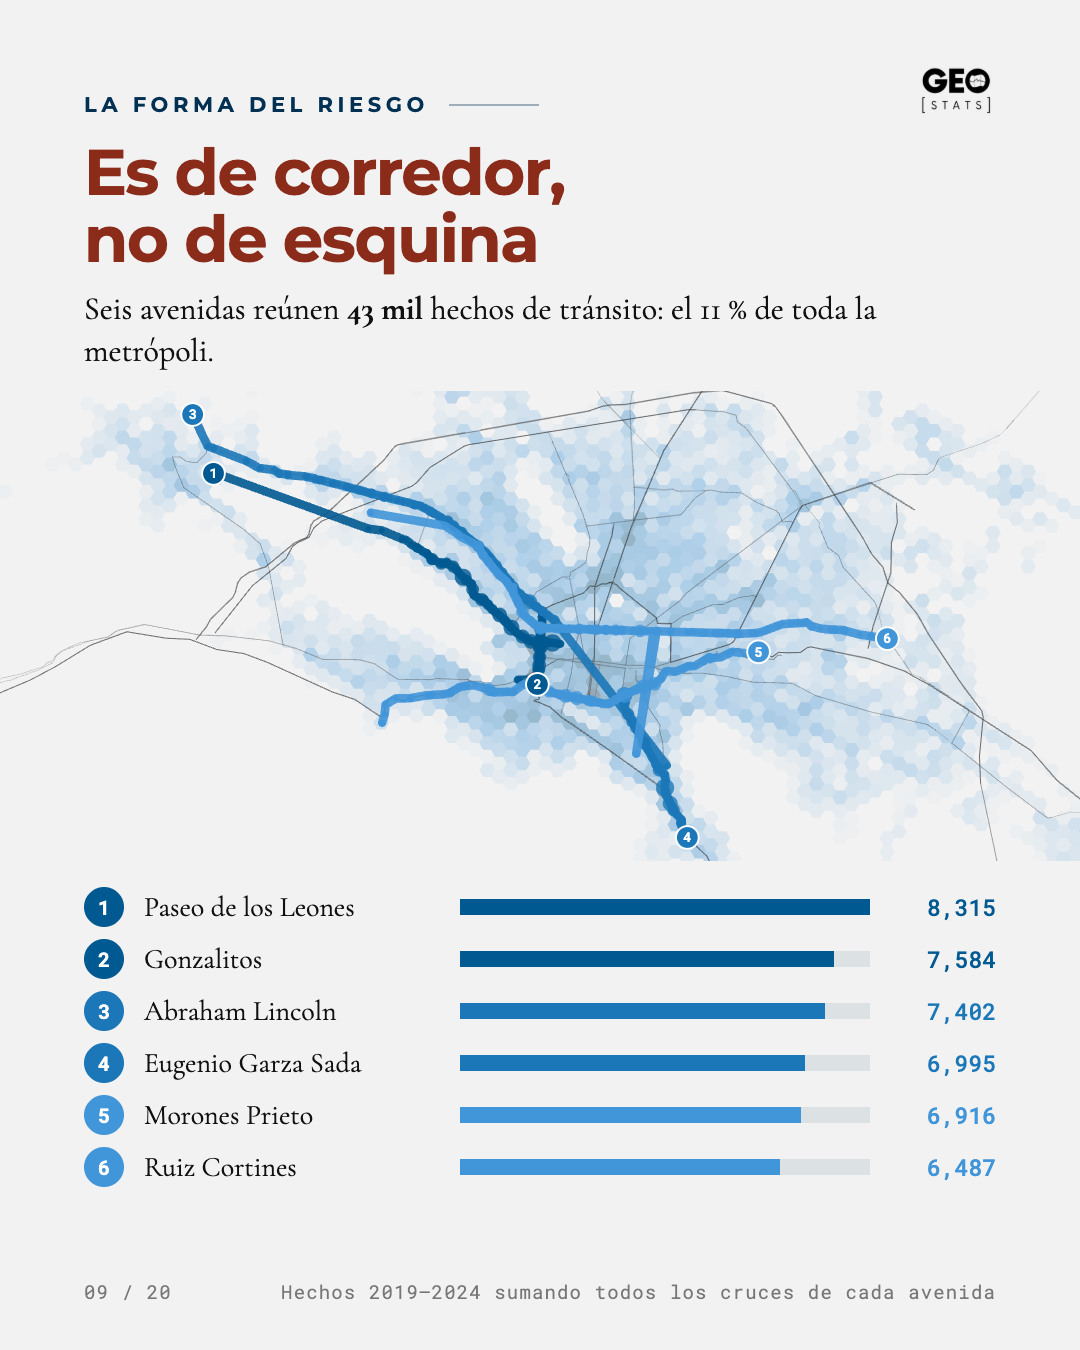
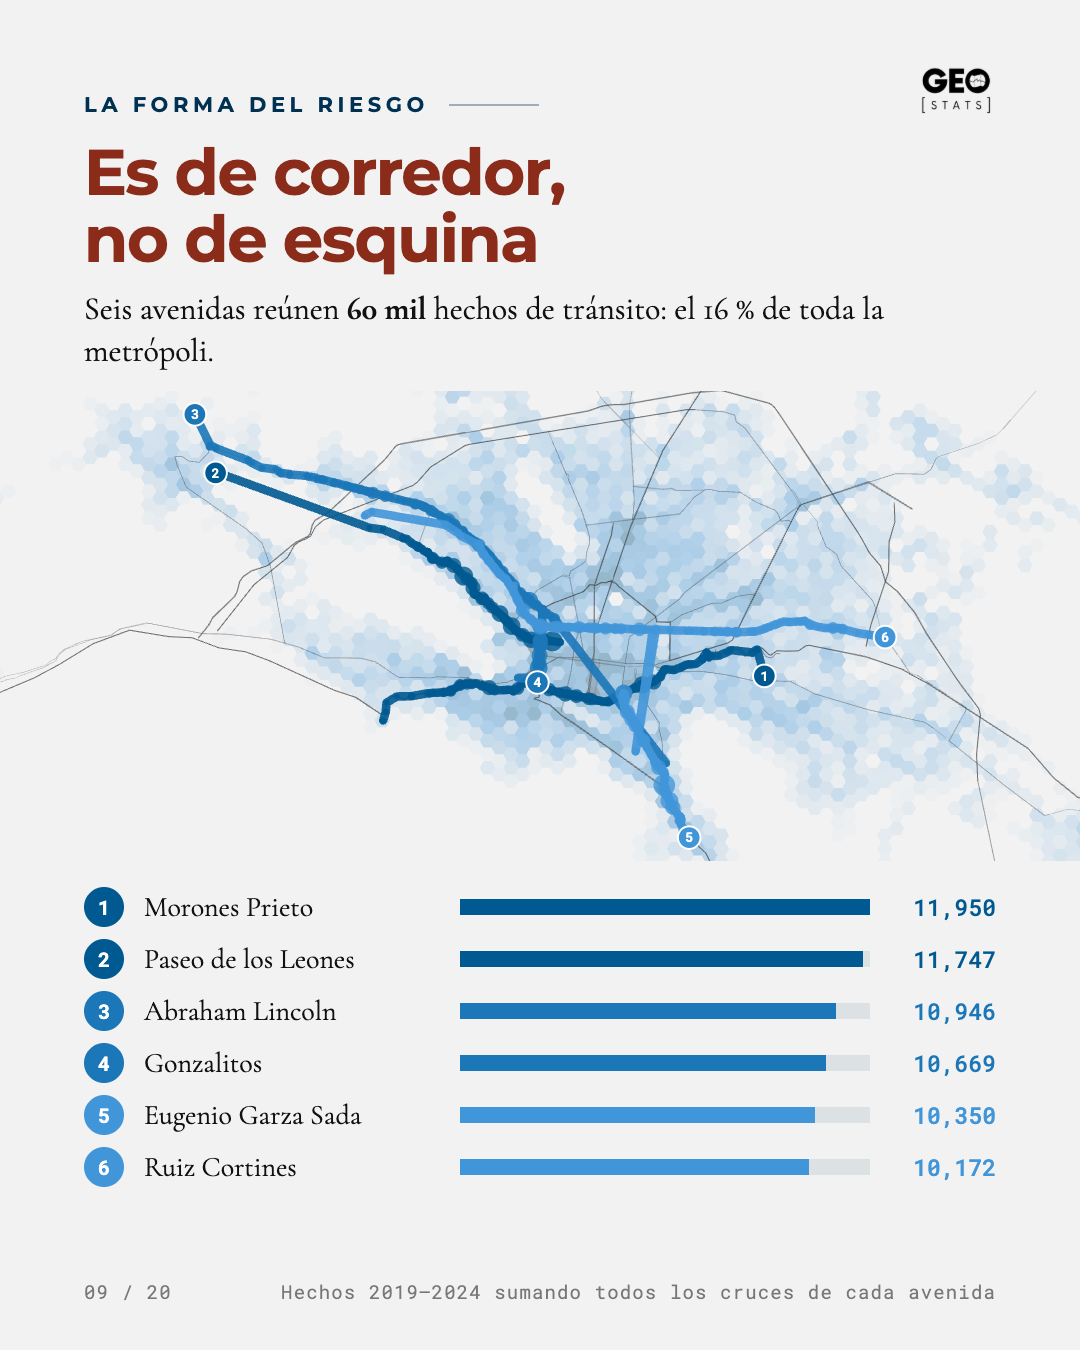
fix(publicacion): actualiza las cifras de corredores tras homologar nombres
Al homologar los nombres de vialidades, los seis corredores pasaron a
reunir 60 mil hechos de tránsito (16 % de la metrópoli) en lugar de 43
mil (11 %), así que se corrige el texto de la lámina de corredores.

También se simplifica el reemplazo de "Manuel L. Barragán", que ya no
depende del nombre duplicado con "×", y se regeneran las imágenes
09_corredores y 12_nombre_y_apellido con los datos corregidos.

diff --git a/publicacion/plantilla.html b/publicacion/plantilla.html
@@ -259,7 +259,7 @@ tr.cima td.n{color:var(--ladrillo); font-weight:700}
 <section class="ig" data-archivo="09_corredores">
   <div class="ceja">La forma del riesgo</div>
   <h2>Es de corredor, no de esquina</h2>
-  <p class="entrada" style="font-size:32px;margin-top:16px">Seis avenidas reúnen <b>43 mil</b> hechos de tránsito: el 11 % de toda la metrópoli.</p>
+  <p class="entrada" style="font-size:32px;margin-top:16px">Seis avenidas reúnen <b>60 mil</b> hechos de tránsito: el 16 % de toda la metrópoli.</p>
   <div class="marco" style="gap:26px;margin-top:20px">
     <div class="mapa" id="mCorredores" style="height:470px;margin:0 -84px"></div>
     <div class="barras" id="bCorredores"></div>
@@ -756,7 +756,7 @@ tr.cima td.n{color:var(--ladrillo); font-weight:700}
       return s.replace(/\b(De|Del|Los|La)\b/g, function(w){ return w.toLowerCase(); })
         .replace("Fray Luis de Leon", "Fray Luis de León").replace("Fidel Velazquez", "Fidel Velázquez")
         .replace("Lazaro Cardenas", "Lázaro Cárdenas").replace("Miguel Aleman", "Miguel Alemán")
-        .replace("Manuel L. Barragan × Manuel L. Barragan", "Manuel L. Barragán").replace("Simon Bolivar", "Simón Bolívar")
+        .replace("Manuel L. Barragan", "Manuel L. Barragán").replace("Simon Bolivar", "Simón Bolívar")
         .replace("Constitucion", "Constitución").replace("San Jeronimo", "San Jerónimo")
         .replace("Doctor Jose Eleuterio Gonzalez", "Gonzalitos").replace("Revolucion", "Revolución")
         .replace("Felix Uresti Gomez", "Félix U. Gómez");
